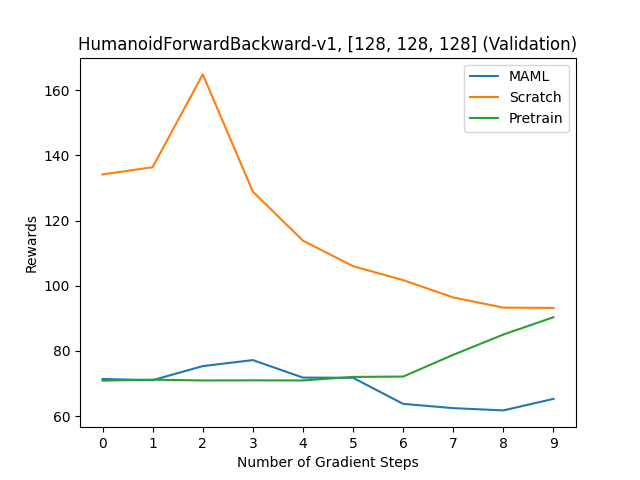
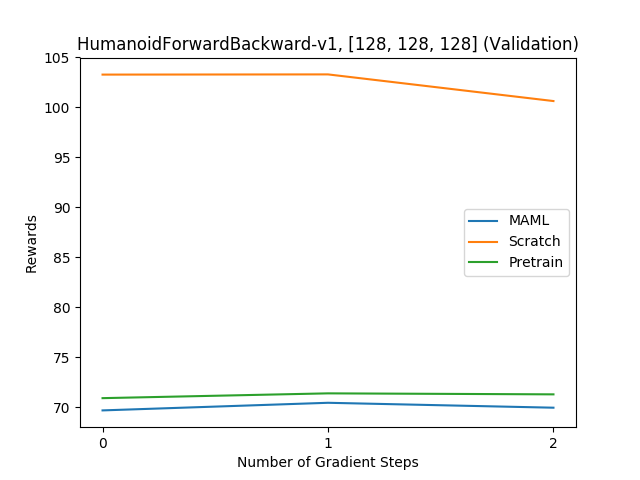
updated graphs

diff --git a/plot.py b/plot.py
@@ -59,15 +59,15 @@ def plotGraphsHidden(env, grad_steps=3, show=False):
         plt.show()
 
 if __name__ == "__main__":
-    grad_steps = 10
-    plotGraphs("HalfCheetahForwardBackward-v1", [128], grad_steps=grad_steps,  show=True)
-    plotGraphs("HalfCheetahForwardBackward-v1", [128,128], grad_steps=grad_steps,  show=True)
-    plotGraphs("HalfCheetahForwardBackward-v1", [128,128, 128], grad_steps=grad_steps,  show=True)
+    grad_steps = 3
+    # plotGraphs("HalfCheetahForwardBackward-v1", [128], grad_steps=grad_steps,  show=True)
+    # plotGraphs("HalfCheetahForwardBackward-v1", [128,128], grad_steps=grad_steps,  show=True)
+    # plotGraphs("HalfCheetahForwardBackward-v1", [128,128, 128], grad_steps=grad_steps,  show=True)
     
-    # plotGraphs("HumanoidForwardBackward-v1", [128], grad_steps=grad_steps, show=True)
-    # plotGraphs("HumanoidForwardBackward-v1", [128,128], grad_steps=grad_steps, show=True)
-    # plotGraphs("HumanoidForwardBackward-v1", [128,128,128], grad_steps=grad_steps, show=True)
-    # plotGraphs("AntForwardBackward-v1", [128], grad_steps=grad_steps, show=True)
-    # plotGraphs("AntForwardBackward-v1", [128,128], grad_steps=grad_steps, show=True)
-    # plotGraphs("AntForwardBackward-v1", [128,128, 128], grad_steps=grad_steps, show=True)
+    plotGraphs("HumanoidForwardBackward-v1", [128], grad_steps=grad_steps, show=True)
+    plotGraphs("HumanoidForwardBackward-v1", [128,128], grad_steps=grad_steps, show=True)
+    plotGraphs("HumanoidForwardBackward-v1", [128,128,128], grad_steps=grad_steps, show=True)
+    plotGraphs("AntForwardBackward-v1", [128], grad_steps=grad_steps, show=True)
+    plotGraphs("AntForwardBackward-v1", [128,128], grad_steps=grad_steps, show=True)
+    plotGraphs("AntForwardBackward-v1", [128,128, 128], grad_steps=grad_steps, show=True)
 

diff --git a/main.py b/main.py
@@ -57,12 +57,12 @@ if __name__ == '__main__':
     # all envs have continuous action spaces
     envs = [
         # john desktop
-        'HalfCheetahForwardBackward-v1', # done
+        # 'HalfCheetahForwardBackward-v1', # done
         # 'HumanoidDirection-v1'
         
         # john laptop
-        # 'AntForwardBackward-v1', # done
-        # 'HumanoidForwardBackward-v1', 
+        'AntForwardBackward-v1', # done
+        'HumanoidForwardBackward-v1' # done
 
         # arjun laptop
         # 'AntDirection-v1',
